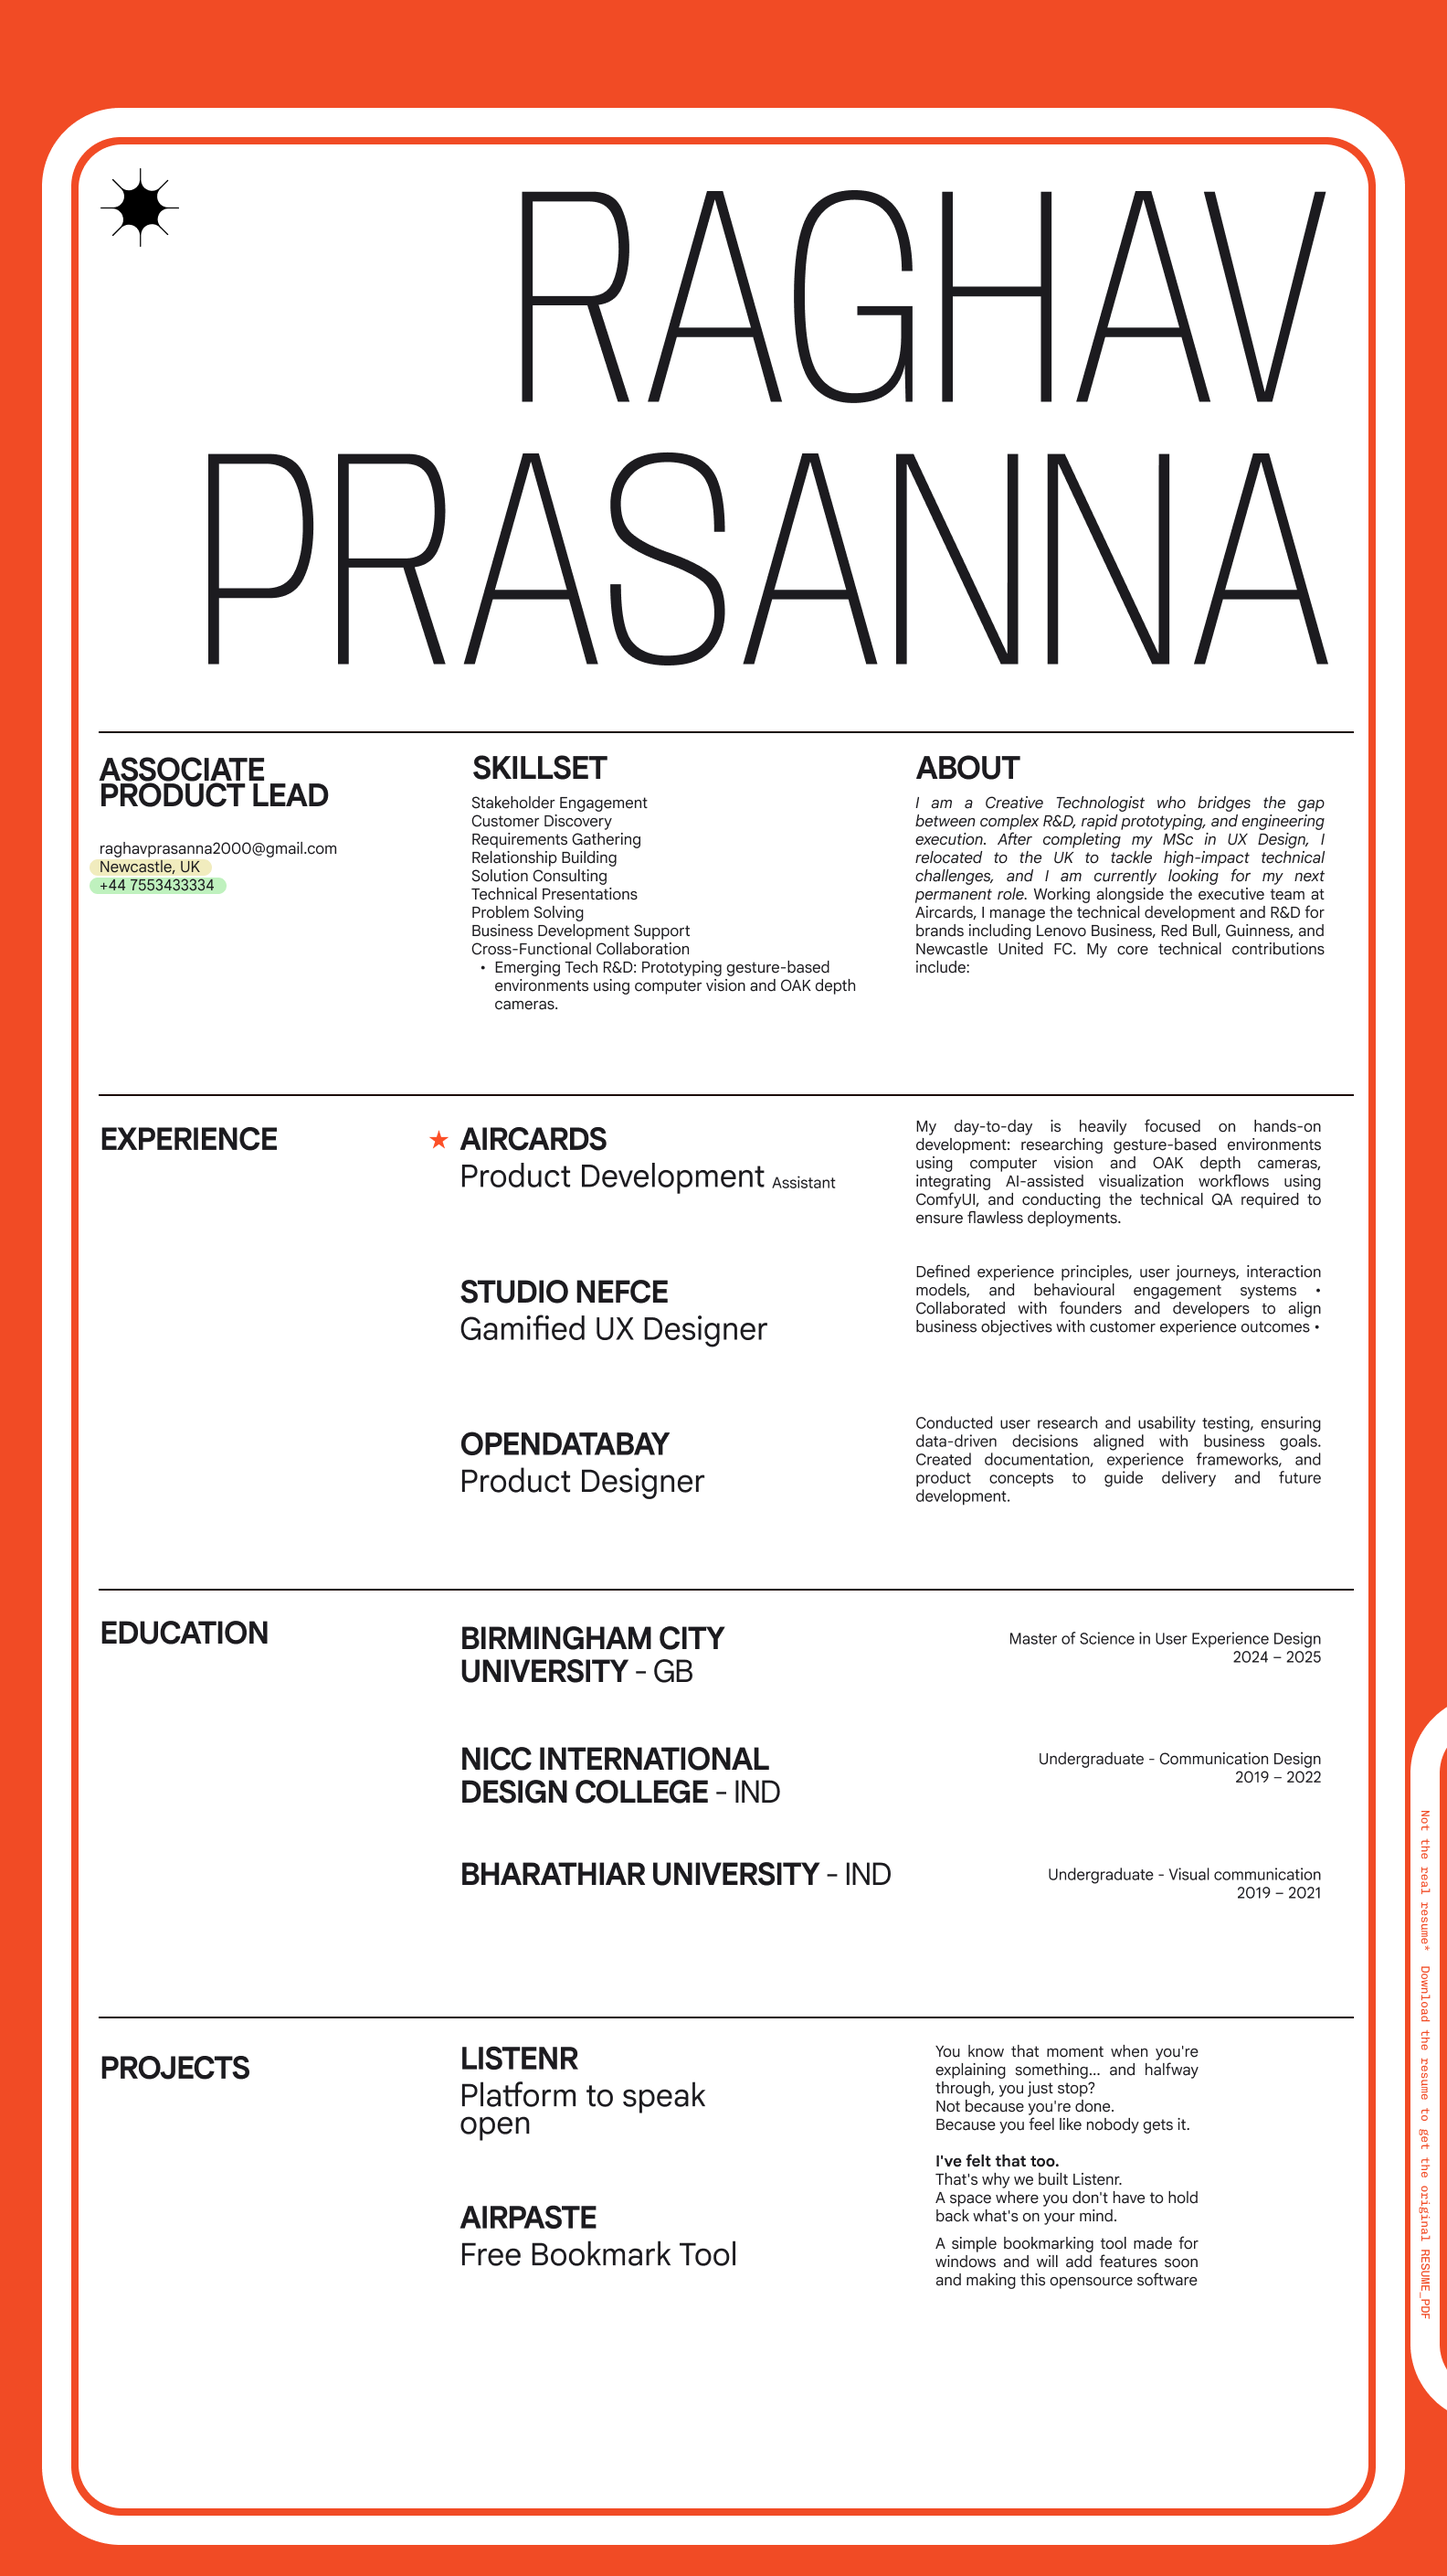
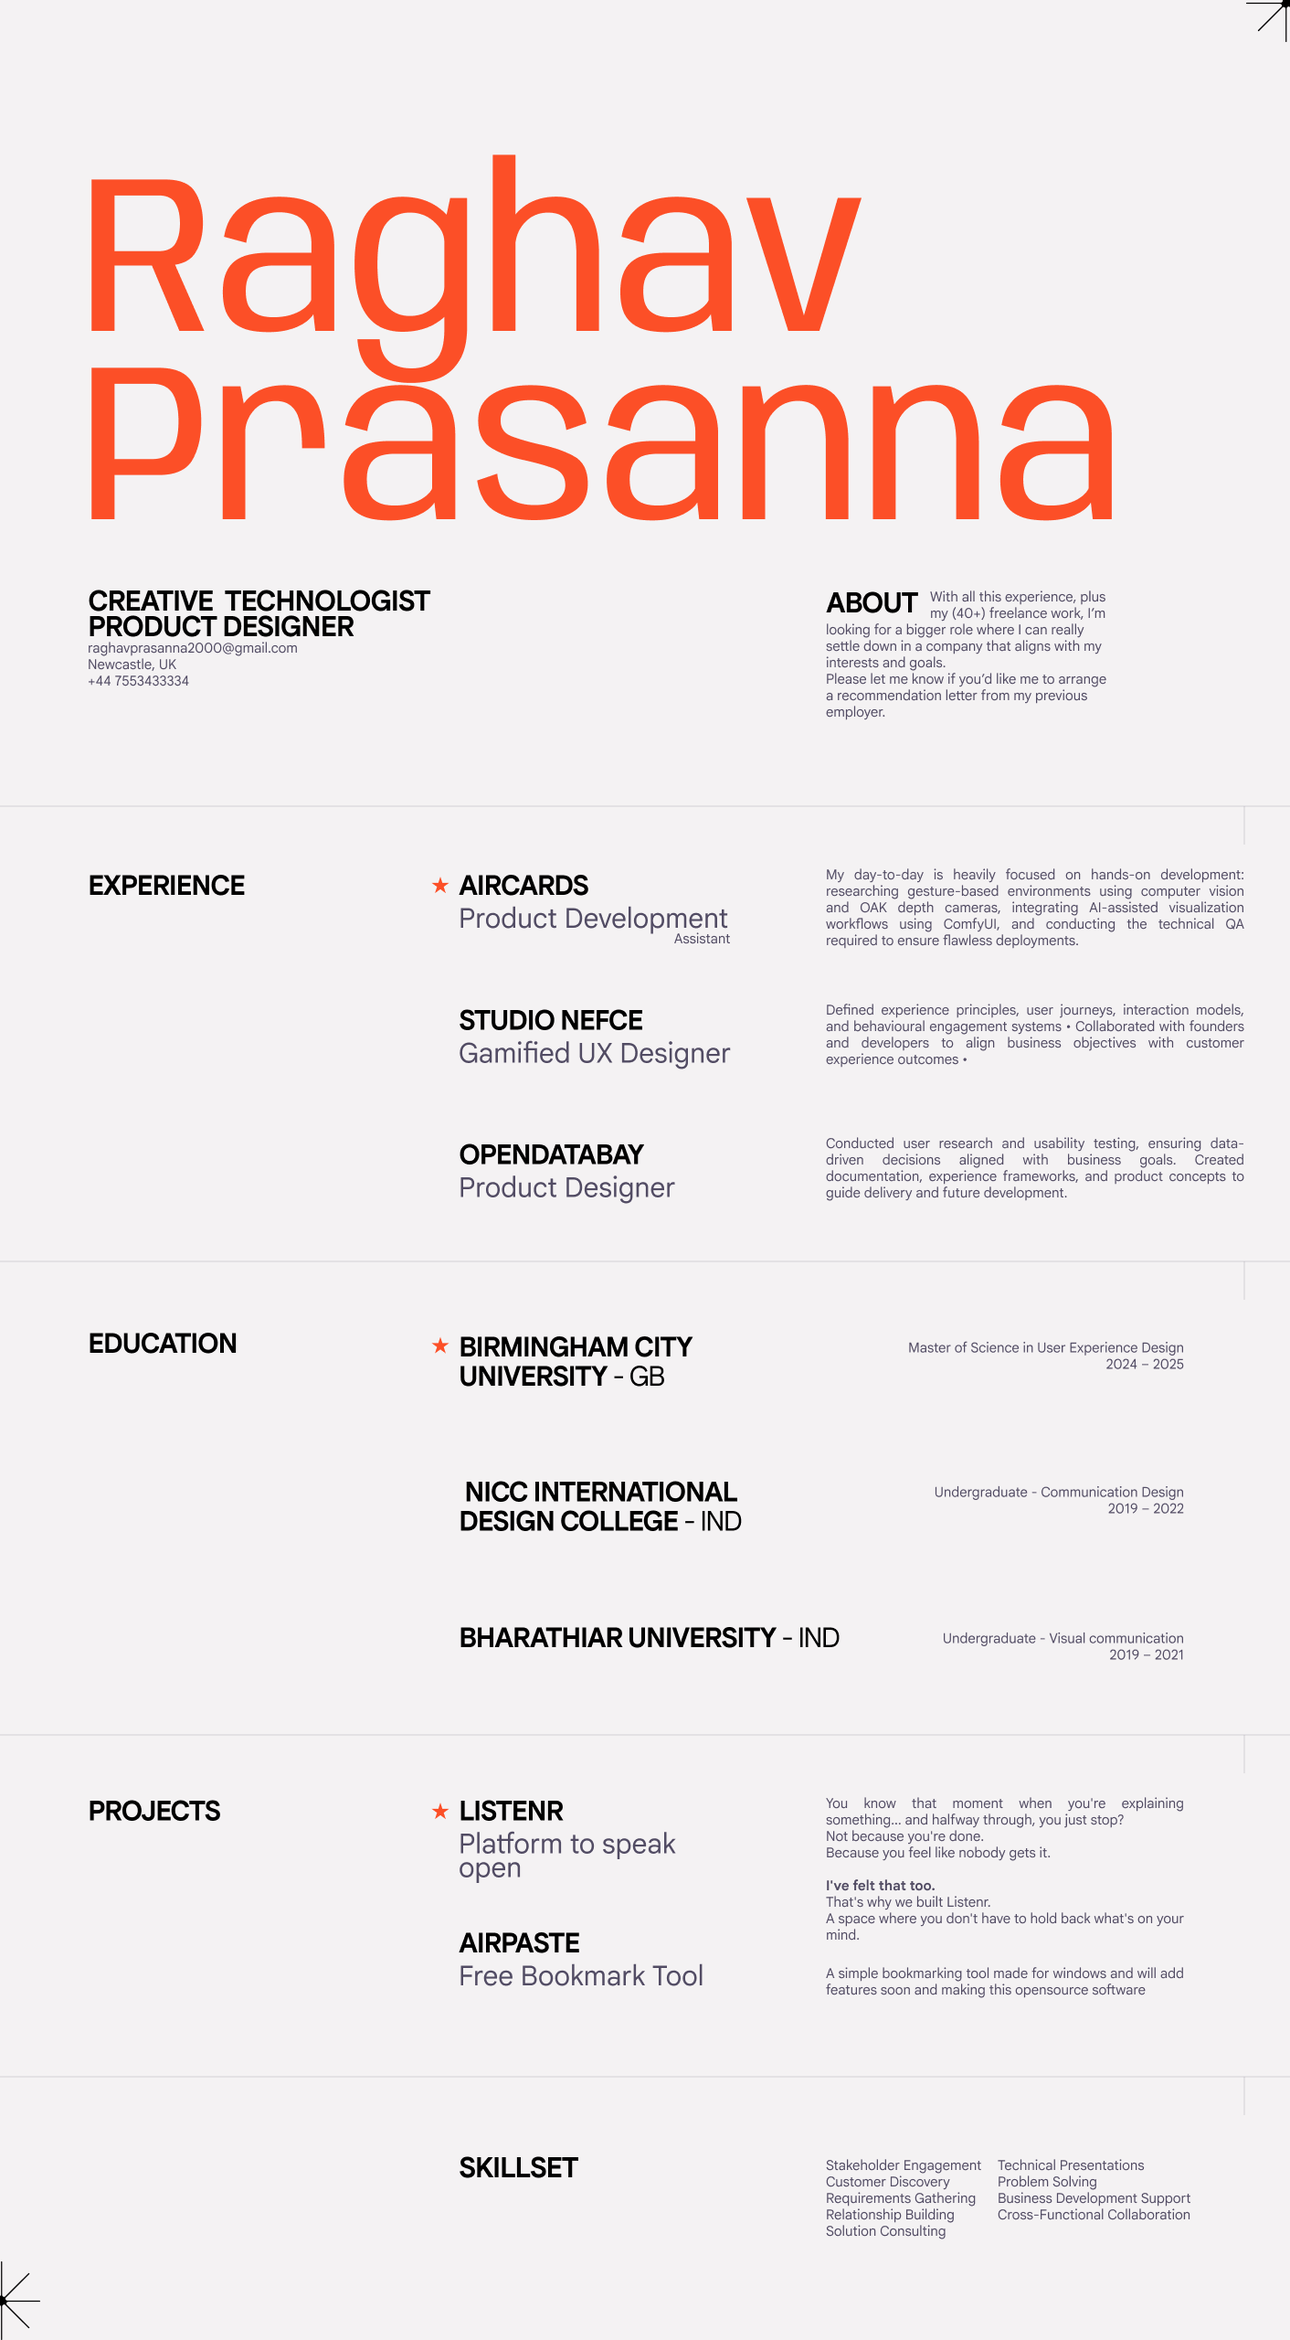
Go

diff --git a/prototype.css b/prototype.css
@@ -27,11 +27,11 @@
     --recruiter-resize-width: 1240px;
     --recruiter-resize-height: 90vh;
     --device-shell-scale: 1;
-    --case-mini-site-scale: 0.7;
+    --case-mini-site-scale: 0.5;
     --split-panel-width: min(96vw, var(--device-width));
     --split-panel-height: min(var(--device-expanded-height), var(--device-expanded-max-height));
     --split-view-gap: 18px;
-    --case-window-width: min(58vw, 960px);
+    --case-window-width: 88vw ;
     --experience-window-width: min(33vw, 470px);
     --case-window-gap: 30px;
     --case-pair-shift: calc((var(--case-window-width) + var(--case-window-gap)) / 2);
@@ -1378,10 +1378,8 @@ body:not(.device-expanded):not(.reader-mode):not(.recruiter-mode) .pill-icon-btn
 
 .device-container.expanded .pill-icon-btn.is-selected {
     border-radius: 14px !important;
-    background: #0000009d  !important;
-    box-shadow:
-        inset 0 1px 0 rgba(255, 255, 255, 0.08),
-        0 8px 18px rgba(0, 0, 0, 0.22);
+    background: #ffffffeb !important;
+    /* box-shadow: inset 0 1px 0 rgba(255, 255, 255, 0.08), 0 8px 18px rgba(0, 0, 0, 0.22); */
     transform: translateY(0) scale(1);
 }
 
@@ -1394,7 +1392,7 @@ body:not(.device-expanded):not(.reader-mode):not(.recruiter-mode) .pill-icon-btn
 }
 
 .device-container.expanded .pill-icon-btn.is-selected .pill-icon-image {
-    mix-blend-mode: normal;
+    /* mix-blend-mode: normal; */
     opacity: 0.95;
 }
 
@@ -4332,7 +4330,7 @@ body.recruiter-mode .recruiter-cases .folder-menu {
 }
 
 .hero-bio-actions {
-    margin-top: 22px;
+    margin: 22px;
     display: flex;
     justify-content: center;
 }
@@ -6557,7 +6555,7 @@ body.experience-open .experience-window {
     flex: 1;
     overflow-y: auto;
     overflow-x: hidden;
-    padding: 96px 20px 24px;
+    padding: 60px 20px 24px;
     box-sizing: border-box;
     background:
         linear-gradient(180deg, rgba(247, 246, 242, 0.96) 0%, rgba(255, 255, 255, 1) 220px),
@@ -6580,15 +6578,15 @@ body.experience-open .experience-window {
 }
 
 .experience-panel-hero {
-    width: 100%;
-    margin: -96px -20px 0;
-    position: sticky;
+    /* width: 100%; */
+    /* margin: -96px -20px 0; */
+    /* position: sticky; */
     top: -96px;
-    z-index: 1;
+    /* z-index: 1; */
     overflow: hidden;
-    border-bottom: 1px solid rgba(13, 16, 24, 0.08);
-    background: #e9e6df;
-    box-shadow: 0 16px 36px rgba(20, 20, 20, 0.08);
+    border-radius: 10px;
+    /* background: #e9e6df; */
+    box-shadow: 0 16px 36px 20px rgba(20, 20, 20, 0.08);
 }
 
 .experience-panel-hero img {

diff --git a/prototype.html b/prototype.html
@@ -392,7 +392,7 @@
                         </div>
                     </h1>
                     <p class="hero-section-subtitle">
-                        Mid level <strong>Product designer engineer</strong> based in London. I am currently looking for my next big adventure and am entirely open to <strong>*sponsored roles*</strong> in any country or region. 
+                        Mid level <strong>Product designer engineer</strong> based in London. I am currently looking for my next big adventure and am entirely open to <strong>sponsored roles in any country or region.</strong> 
                     <div class="hero-section-actions">
                         <a href="#" class="btn-primary" id="show-resume-btn" data-cursor="link">
                             Show Resume <img src="iconset/summarize.png" alt="" class="resume-icon" aria-hidden="true">
@@ -421,9 +421,9 @@
 
             <section class="content-section content-section--bleed" aria-label="About me summary">
                 <div class="content-card">
-                    <p class="dock-kicker">A summary about me</p>
+                    <p class="dock-kicker" style="padding-top: 30px;">A summary about me</p>
                     <p class="hero-section-subtitle">
-                        Hi, I’m Raghav. I’m currently a Product Development Assistant at Aircards, working directly with the Head of Product. As an immigrant, this role has been incredibly eye-opening—it’s given me a front-row seat to corporate management and the real ins and outs of how products are actually shipped.<br><br>
+                        Hi, I’m Raghav. I’m currently a <strong>Product Development Assistant</strong> at Aircards, working directly with the Head of Product. As an immigrant, this role has been incredibly eye-opening—it’s given me a front-row seat to corporate management and the real ins and outs of how products are actually shipped.<br><br>
 
 My day-to-day involves blending AI workflows with UX design, which ties perfectly into my background. I originally came to the UK to get my Master's in Birmingham, but I eventually made beautiful Newcastle my second home.<br><br>
 
